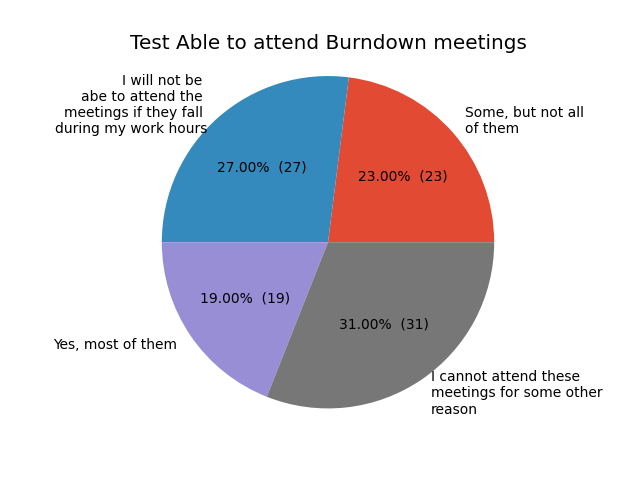
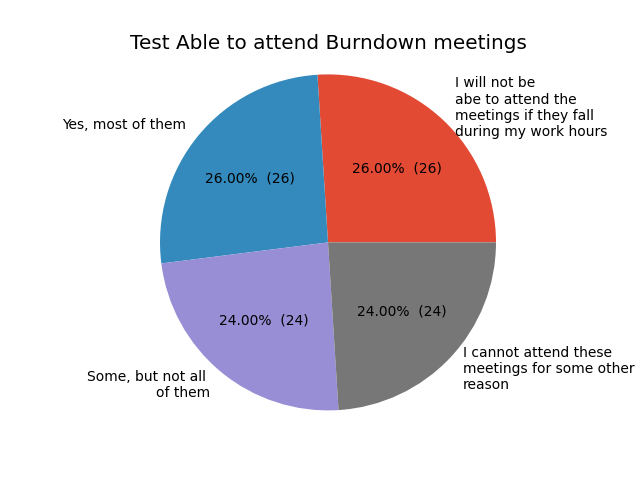
Add report template

diff --git a/src/test_data.py b/src/test_data.py
@@ -72,10 +72,10 @@ TESTING_SCHEMA_CHARTS = [
                    plotting_count_entities_up, {CLEAN_SPLIT_INTO_KEYWORDS: RELEASE_TEAM_TEAMS}),
         BasicChart("Test Previously served on the Kubernetes Release Team", ["Previously served"],
                    plotting_count_entities_up, {}),
-        BasicChart("Test How often applied to the release team",
+        BasicChart("Test Times applied",
                    ["Times applied"], plotting_count_entities_up, {}),
         BasicChart("Test Previous Roles",
-                   ["Previously served"],
+                   ["Previous role"],
                    plotting_count_entities_up, {CLEAN_SPLIT_INTO_KEYWORDS: RELEASE_TEAM_TEAMS, CLEAN_THRESHOLD: 2}),
         BasicChart("Test Able to attend Release Team meetings",
                    ["Attend Release Team Meetings"],
@@ -116,7 +116,7 @@ def get_dataframe_random(records: int = 100) -> polars.DataFrame:
                                           "It's complicated"]) for _ in range(records)],
         "Previously served": [_fake_get_bool() for _ in range(records)],
         "Served in roles": [_fake_get_release_team_team() for _ in range(records)],
-        "Previous role": [secrets.choice(["Lead", "Shadow"]) for _ in range(records)],
+        "Previous role": [_fake_get_release_team_team() for _ in range(records)],
         "Interested in roles": [_fake_get_release_team_team() for _ in range(records)],
         "Volunteer for next Cycles": [secrets.choice(["Yes", "No", "Maybe"]) for _ in range(records)],
         "Stable Roster": [_fake_get_bool() for _ in range(records)],

diff --git a/src/config.py b/src/config.py
@@ -65,7 +65,7 @@ CHART_SCHEMA_DEFINITIONS = {
         BasicChart("Previously served on the Kubernetes Release Team",
                    ["Have you previously served on a Kubernetes Release Team?"],
                    plotting_count_entities_up, {}),
-        BasicChart("How often applied to the release team",
+        BasicChart("Times applied before",
                    ["How many times have you applied to join the Release Team?"],
                    plotting_count_entities_up, {}),
         BasicChart("Release Team Roles Previously Served in",

diff --git a/main.py b/main.py
@@ -56,7 +56,7 @@ if __name__ == "__main__":
         schema_charts = CHART_SCHEMA_DEFINITIONS[schema_version.val()]
         schema_summary = SUMMARY_CONFIGS[schema_version.val()]
     else:
-        print("Test mode enabled... generate random test data...")
+        print("Test mode enabled... use random generated test data...")
         df = get_dataframe_random()
         df_opt_in = df
         schema_charts = TESTING_SCHEMA_CHARTS

diff --git a/src/charts.py b/src/charts.py
@@ -42,7 +42,9 @@ def plotting_count_entities_up(series: polars.Series, name: str, config: any):
     ax.axis('equal')
     plt.style.use(THEME_MARPLOTLIB)
     plt.title(name)
-    plt.savefig(get_plot_file(name.lower().replace(" ", "-")))
+    filename = get_plot_file(name.lower().replace(" ", "-"))
+    plt.savefig(filename)
+    print(f"Plot saved {filename}")
 
 
 def break_label_lines(list_of_labels, max_words_per_line: int):

diff --git a/examples/README.md b/examples/README.md
@@ -9,9 +9,9 @@ The example files in the folder `applicants` & `plots` have been generated with 
 1. [(PRIVATE) Examples of the applicant data extraction (data is not shared with the community)](#examples-markdown-extracts)
 2. [(PUBLIC) Examples of the Plots (data is shared with the community)](#examples-plots--charts)
 
+The plots are getting shared in a report with the community at the beginning of a release cycle. The [report template can be found under the `reports` folder](https://github.com/kubernetes-sigs/release-team-shadow-stats/tree/main/examples/reports/report-template.md).
 
 ## Examples: Markdown extracts
-
 
 All the files can be found under [examples/applicants](https://github.com/kubernetes-sigs/release-team-shadow-stats/tree/main/examples/applicants)
 
@@ -78,5 +78,93 @@ As mentioned before these files if generated with real applicant data is not sha
 #### Attend Burndown meetings
 ![burndown meetings](./plots/test-able-to-attend-burndown-meetings.png)
 
-#### Attend Release Team meetings
-![release team meetings](./plots/test-able-to-attend-release-team-meetings.png)
+
+### Plots: By team
+
+Plots are getting generated for each team in the release team that you can apply via the release team shadow application form.  
+
+1. [Bug Triage](#bug-triage)
+2. [CI Signal](#ci-signal)
+3. [Communications](#communications)
+4. [Documentation](#documentation)
+5. [Release Notes](#release-notes)
+
+Each team has the same types of plots.
+- Timezone
+- Returners / Newcomers
+- Pronouns
+
+#### Bug Triage
+
+1. [Bug Triage: Timezone](#bug-triage-timezone)
+2. [Bug Triage: Returners / Newcomers](#bug-triage-returners-newcomers)
+3. [Bug Triage: Pronouns](#bug-triage-pronouns)
+
+##### Bug Triage Timezone
+![Bug Triage Timezone](./plots/entities-timezonebugtriage.png)
+
+##### Bug Triage Returners, Newcomers
+![Bug Triage Returners / Newcomers](./plots/returners-and-newcomersforbugtriage.png)
+
+##### Bug Triage Pronouns
+![Bug Triage Returners / Newcomers](./plots/pronouns-bugtriage.png)
+
+#### CI Signal
+
+1. [CI Signal: Timezone](#ci-signal-timezone)
+2. [CI Signal: Returners / Newcomers](#ci-signal-returners-newcomers)
+3. [CI Signal: Pronouns](#ci-signal-pronouns)
+
+##### CI Signal Timezone
+![CI Signal Timezone](./plots/entities-timezonecisignal.png)
+
+##### CI Signal Returners, Newcomers
+![CI Signal Returners / Newcomers](./plots/returners-and-newcomersforcisignal.png)
+
+##### CI Signal Pronouns
+![CI Signal Returners / Newcomers](./plots/pronouns-cisignal.png)
+
+#### Communications
+
+1. [Communications: Timezone](#communications-timezone)
+2. [Communications: Returners / Newcomers](#communications-returners-newcomers)
+3. [Communications: Pronouns](#communications-pronouns)
+
+##### Communications Timezone
+![Communications Timezone](./plots/entities-timezonecommunications.png)
+
+##### Communications Returners, Newcomers
+![Communications Returners / Newcomers](./plots/returners-and-newcomersforcommunications.png)
+
+##### Communications Pronouns
+![Communications Returners / Newcomers](./plots/pronouns-communications.png)
+
+#### Documentation
+
+1. [Documentation: Timezone](#documentation-timezone)
+2. [Documentation: Returners / Newcomers](#documentation-returners-newcomers)
+3. [Documentation: Pronouns](#documentation-pronouns)
+
+##### Documentation Timezone
+![Documentation Timezone](./plots/entities-timezonedocumentation.png)
+
+##### Documentation Returners, Newcomers
+![Documentation Returners / Newcomers](./plots/returners-and-newcomersfordocumentation.png)
+
+##### Documentation Pronouns
+![Documentation Returners / Newcomers](./plots/pronouns-documentation.png)
+
+#### Release Notes
+
+1. [Release Notes: Timezone](#release-notes-timezone)
+2. [Release Notes: Returners / Newcomers](#release-notes-returners-newcomers)
+3. [Release Notes: Pronouns](#release-notes-pronouns)
+
+##### Release Notes Timezone
+![Release Notes Timezone](./plots/entities-timezonereleasenotes.png)
+
+##### Release Notes Returners, Newcomers
+![Release Notes Returners / Newcomers](./plots/returners-and-newcomersforreleasenotes.png)
+
+##### Release Notes Pronouns
+![Release Notes Returners / Newcomers](./plots/pronouns-releasenotes.png)

diff --git a/examples/reports/report-template.md b/examples/reports/report-template.md
@@ -1,0 +1,51 @@
+# Kubernetes Release Team Shadow Application Report for the release cycle 1.XX
+
+Hello and welcome to the release-team-shadow-stats report for the Kubernetes release cycle 1.XX. This document reports the current status about the release team shadow application program which is open to apply for before a Kubernetes release cycle starts, you can read [here](https://github.com/kubernetes/sig-release/tree/master/release-team) more about the release team shadow application program.
+
+<table>
+<tr><td> 
+
+##### Applicants by team
+![Applicants by team](../plots/test-interested-in-teams.png)
+_add a comparison to previous cycle_
+</td><td>
+
+##### Company Affiliation
+![Affiliation / Company](../plots/test-company.png)
+_add a comparison to previous cycle_
+</td></tr><tr><td> 
+
+##### Reapplying Applicants (Newcomer & Returner)
+![Reapplying newcomers](../plots/test-times-applied.png)
+_add a comparison to previous cycle_
+</td><td>
+
+##### Returners, Newcomers ratio
+![Returners, Newcomers](../plots/test-previously-served-on-the-kubernetes-release-team.png)
+_add a comparison to previous cycle_
+</td></tr><tr><td> 
+
+##### Timezone
+![Applicants by team](../plots/test-timezone.png)
+_add a comparison to previous cycle_
+</td><td>
+
+##### Previous Release Team Roles (Returners)
+![TBD: Previous Returner Roles](../plots/test-previous-roles.png)
+_add a comparison to previous cycle_
+</td></tr><tr><td> 
+
+##### Able to attend Release Team meetings
+![TBD: Newcomers re-applications](../plots/test-able-to-attend-release-team-meetings.png)
+_add a comparison to previous cycle_
+</td><td>
+
+##### Able to attend Burndown meetings
+![TBD: Previous Returner Roles](../plots/test-able-to-attend-burndown-meetings.png)
+_add a comparison to previous cycle_
+</td></tr><tr>
+</table>
+
+---
+
+If you like to leave feedback feel free to reach out to `#sig-release` or `#contribEx` on Slack or just open up an issue in the [release-team-shadow-stats](https://github.com/kubernetes-sigs/release-team-shadow-stats) repo and tag one of the [owners](https://github.com/kubernetes-sigs/release-team-shadow-stats/blob/main/OWNERS), Thanks!

diff --git a/README.md b/README.md
@@ -1,14 +1,12 @@
 # Release Team Shadow Applicant analysis
 
-*Disclaimer: The project is work in progress*
-
 This project is designed to support at the release team shadow selection process. It should be used in the shadow selection phase and to communicate transparently with the community about the current status of the release team shadow program.    
 
 **Goals**:
 * Improve the release team shadow selection process by extracting data from a excel into multiple markdown files (see [examples/applicant](https://github.com/kubernetes-sigs/release-team-shadow-stats/tree/main/examples/applicants))  
 * Provide some transparency about the current shadow program by creating non identifying charts that can be shared with the community (see [examples/plots](https://github.com/kubernetes-sigs/release-team-shadow-stats/tree/main/examples/plots))
 
-The files in found under the folder [`example/`](https://github.com/kubernetes-sigs/release-team-shadow-stats/tree/main/examples) are generated with fake data!
+The files in found under the folder [`example/`](https://github.com/kubernetes-sigs/release-team-shadow-stats/tree/main/examples) are generated with **fake data**!
 
 ## Examples (see [examples/README.md](https://github.com/kubernetes-sigs/release-team-shadow-stats/blob/main/examples/README.md))
 
